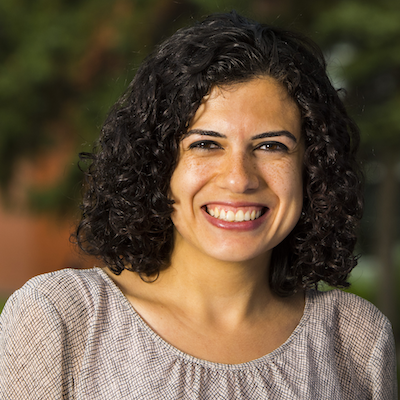
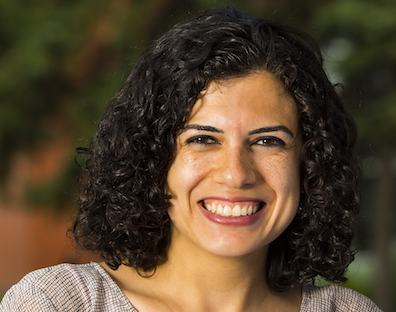
Adding photos

diff --git a/events/strange-loop-2022-09.html b/events/strange-loop-2022-09.html
@@ -8,45 +8,63 @@ title: "It Will Never Work in Theory: Strange Loop 2022"
   It Will Never Work in Theory is offering its second live event
   in conjunction with the <a href="https://thestrangeloop.com/">Strange Loop</a> conference.
   Leading software engineering researchers will present short summaries
-  of immediate, actionable results from their work:
-  FIXME: tags for a few topics
-  Our speakers will share what we know about these questions and why we believe it's true.
+  of immediate, actionable results from their work on everything from
+  securing software supply chains to automatically avoiding API misuses.
 </p>
 
 <h2>Speakers</h2>
 
-<ul>
-
-  <li id="brown-chris">
+<div class="flex-row">
+  <div class="flex-col">
+    <img src="{{'/files/2022-09-23/brown-chris.png' | relative_url}}" alt="Chris Brown"/>
+  </div>
+  <div class="flex-col" id="brown-chris">
     <a href="https://chbrown13.github.io/" class="person">Chris Brown</a>:
     "How to recommend tools for finding and fixing software errors."
+    <br/>
     Chris is an Assistant Professor in the Department of Computer Science at Virginia Tech.
     His research aims to improve the behavior, productivity, and decision-making of software engineers.
     <a href="https://twitter.com/d_chrisbrown2"><i class="fab fa-twitter"></i></a>
-  </li>
+  </div>
+</div>
 
-  <li id="da-silva-santos-joanna">
+
+<div class="flex-row">
+  <div class="flex-col" id="da-silva-santos-joanna">
     <a href="https://joannacss.github.io/" class="person">Joanna Cecilia da Silva Santos</a>:
     "Choose wisely: code smells in automatically generated code."
+    <br/>
     Joanna is an Assistant Professor in the Department of Computer Science and Engineering at the University of Notre Dame.
     Her main research interests are software engineering, software security, and program analysis.
     <a href="https://twitter.com/joannacss"><i class="fab fa-twitter"></i></a>
-  </li>
+  </div>
+  <div class="flex-col">
+    <img src="{{'/files/2022-09-23/da-silva-santos-joanna.png' | relative_url}}" alt="Joanna Cecilia da Silva Santos"/>
+  </div>
+</div>
 
-  <li id="hicks-cat">
+<div class="flex-row">
+  <div class="flex-col">
+    <img src="{{'/files/2022-09-23/hicks-catherine.png' | relative_url}}" alt="Cat Hicks"/>
+  </div>
+  <div class="flex-col" id="hicks-cat">
     <a href="https://www.catharsisinsight.com/" class="person">Catherine Hicks</a>:
     "It's like coding in the dark: the need for learning culture within engineering teams".
+    <br/>
     Cat is the VP of Research Insights and Director of the Developer Insights Lab at Pluralsight Flow.
     She holds a Ph.D. in Quantitative Experimental Psychology from UC San Diego,
     was an inaugural Fellow in the UC San Diego Design Lab,
     and has led research at organizations such as Google and Khan Academy.
     She serves on the Advisory Council of the University of San Diego Center for Digital Civil Society.  
     <a href="https://twitter.com/grimalkina"><i class="fab fa-twitter"></i></a>
-  </li>
+  </div>
+</div>
 
-  <li id="khomh-foutse">
+<div class="flex-row">
+  <div class="flex-col" id="khomh-foutse">
     <a href="http://khomh.net/" class="person">Foutse Khomh</a>:
     "Finding bugs in deep learning programs."
+    <br/>
     Foutse is a Full Professor of Software Engineering at Polytechnique Montréal,
     Canada CIFAR AI Chair on Trustworthy Machine Learning Software Systems at Mila - Quebec AI Institute,
     and FRQ-IVADO Research Chair on Software Quality Assurance for Machine Learning Applications.
@@ -55,56 +73,82 @@ title: "It Will Never Work in Theory: Strange Loop 2022"
     cloud engineering,
     and dependable and trustworthy ML/AI.
     <a href="https://twitter.com/SWATLab"><i class="fab fa-twitter"></i></a>
-  </li>
+  </div>
+  <div class="flex-col">
+    <img src="{{'/files/2022-09-23/khomh-foutse.png' | relative_url}}" alt="Foutse Khomh"/>
+  </div>
+</div>
 
-  <li id="mirakhorli-mehdi">
+<div class="flex-row">
+  <div class="flex-col">
+    <img src="{{'/files/2022-09-23/mirakhorli-mehdi.png' | relative_url}}" alt="Mehdi Mirakhorli" width="100%"/>
+  </div>
+  <div class="flex-col" id="mirakhorli-mehdi">
     <a href="https://www.se.rit.edu/~mehdi/" class="person">Mehdi Mirakhorli</a>:
     "Securing software supply chains".
+    <br/>
     Mehdi is the Director of Research at Global Cybersecurity Institute (GCI)
     and associate professor and Kodak Endowed Chair in the Software Engineering Department
     at Rochester Institute of Technology.
     His research interests are in the intersection of Software Engineering, Artificial Intelligence, and Cybersecurity.
     <a href="https://twitter.com/mehdimirakhorl"><i class="fab fa-twitter"></i></a>
-  </li>
+  </div>
+</div>
 
-  <li id="nadi-sarah">
+<div class="flex-row">
+  <div class="flex-col" id="nadi-sarah">
     <a href="https://www.sarahnadi.org/" class="person">Sarah Nadi</a>:
     "It's not you, it's the API: automatically avoiding API misuses".
+    <br/>
     Sarah is an Associate Professor in the Department of Computing Science at the University of Alberta
     and a Tier II Canada Research Chair in Software Reuse.
     Her research creates tools that help software developers accomplish tasks more efficiently;
     her recent work focuses on supporting developers as they use software libraries
     <a href="https://twitter.com/sarahnadi"><i class="fab fa-twitter"></i></a>
-  </li>
+  </div>
+  <div class="flex-col">
+    <img src="{{'/files/2022-09-23/nadi-sarah.png' | relative_url}}" alt="Sarah Nadi"/>
+  </div>
+</div>
 
-  <li id="smith-justin">
+<div class="flex-row">
+  <div class="flex-col">
+    <img src="{{'/files/2022-09-23/smith-justin.png' | relative_url}}" alt="Justin Smith"/>
+  </div>
+  <div class="flex-col" id="smith-justin">
     <a href="https://jssmith1.github.io/" class="person">Justin Smith</a>:
     "How automated tools can communicate effective strategies for fixing bugs".
+    <br/>
     Justin is an Assistant Professor of Computer Science at Lafayette College.
     His  research focuses on the intersections between Software Engineering, HCI, and security,
     and ranges from how developers get help from sites like Stack Overflow
     to the factors that influence ethical decision making in software development. 
     <a href="https://twitter.com/JustinSmith0903"><i class="fab fa-twitter"></i></a>
-  </li>
+  </div>
+</div>
 
-  <li id="zhang-tianyi">
+<div class="flex-row">
+  <div class="flex-col" id="zhang-tianyi">
     <a href="https://tianyi-zhang.github.io/" class="person">Tianyi Zhang</a>:
     "Interactive debugging and testing support for deep learning".
+    <br/>
     Tianyi is an assistant professor in Computer Science at Purdue University,
     where he develops interactive systems that augment human intelligence with data-driven insights
     and augment machine intelligence with human guidance,
     with a particular focus on improving programming productivity.
     <a href="https://twitter.com/tian_yi_zhang"><i class="fab fa-twitter"></i></a>
-  </li>
-
-</ul>
+  </div>
+  <div class="flex-col">
+    <img src="{{'/files/2022-09-23/zhang-tianyi.png' | relative_url}}" alt="Tianyi Zhang"/>
+  </div>
+</div>
 
 <p align="center">
   <img src="{{ '/files/strange-loop.png' | relative_url }}" alt="Strange Loop logo" />
 </p>
 <p>
   Recordings of these talks will be shared after the event
-  in collaboration with <a href="https://thestrangeloop.com/">Strange Loop</a>,
+  courtesy of <a href="https://thestrangeloop.com/">Strange Loop</a>,
   a multi-disciplinary conference that brings together
   the developers and thinkers building tomorrow's technology in fields such as emerging languages,
   alternative databases, concurrency, distributed systems, security, and the web.
